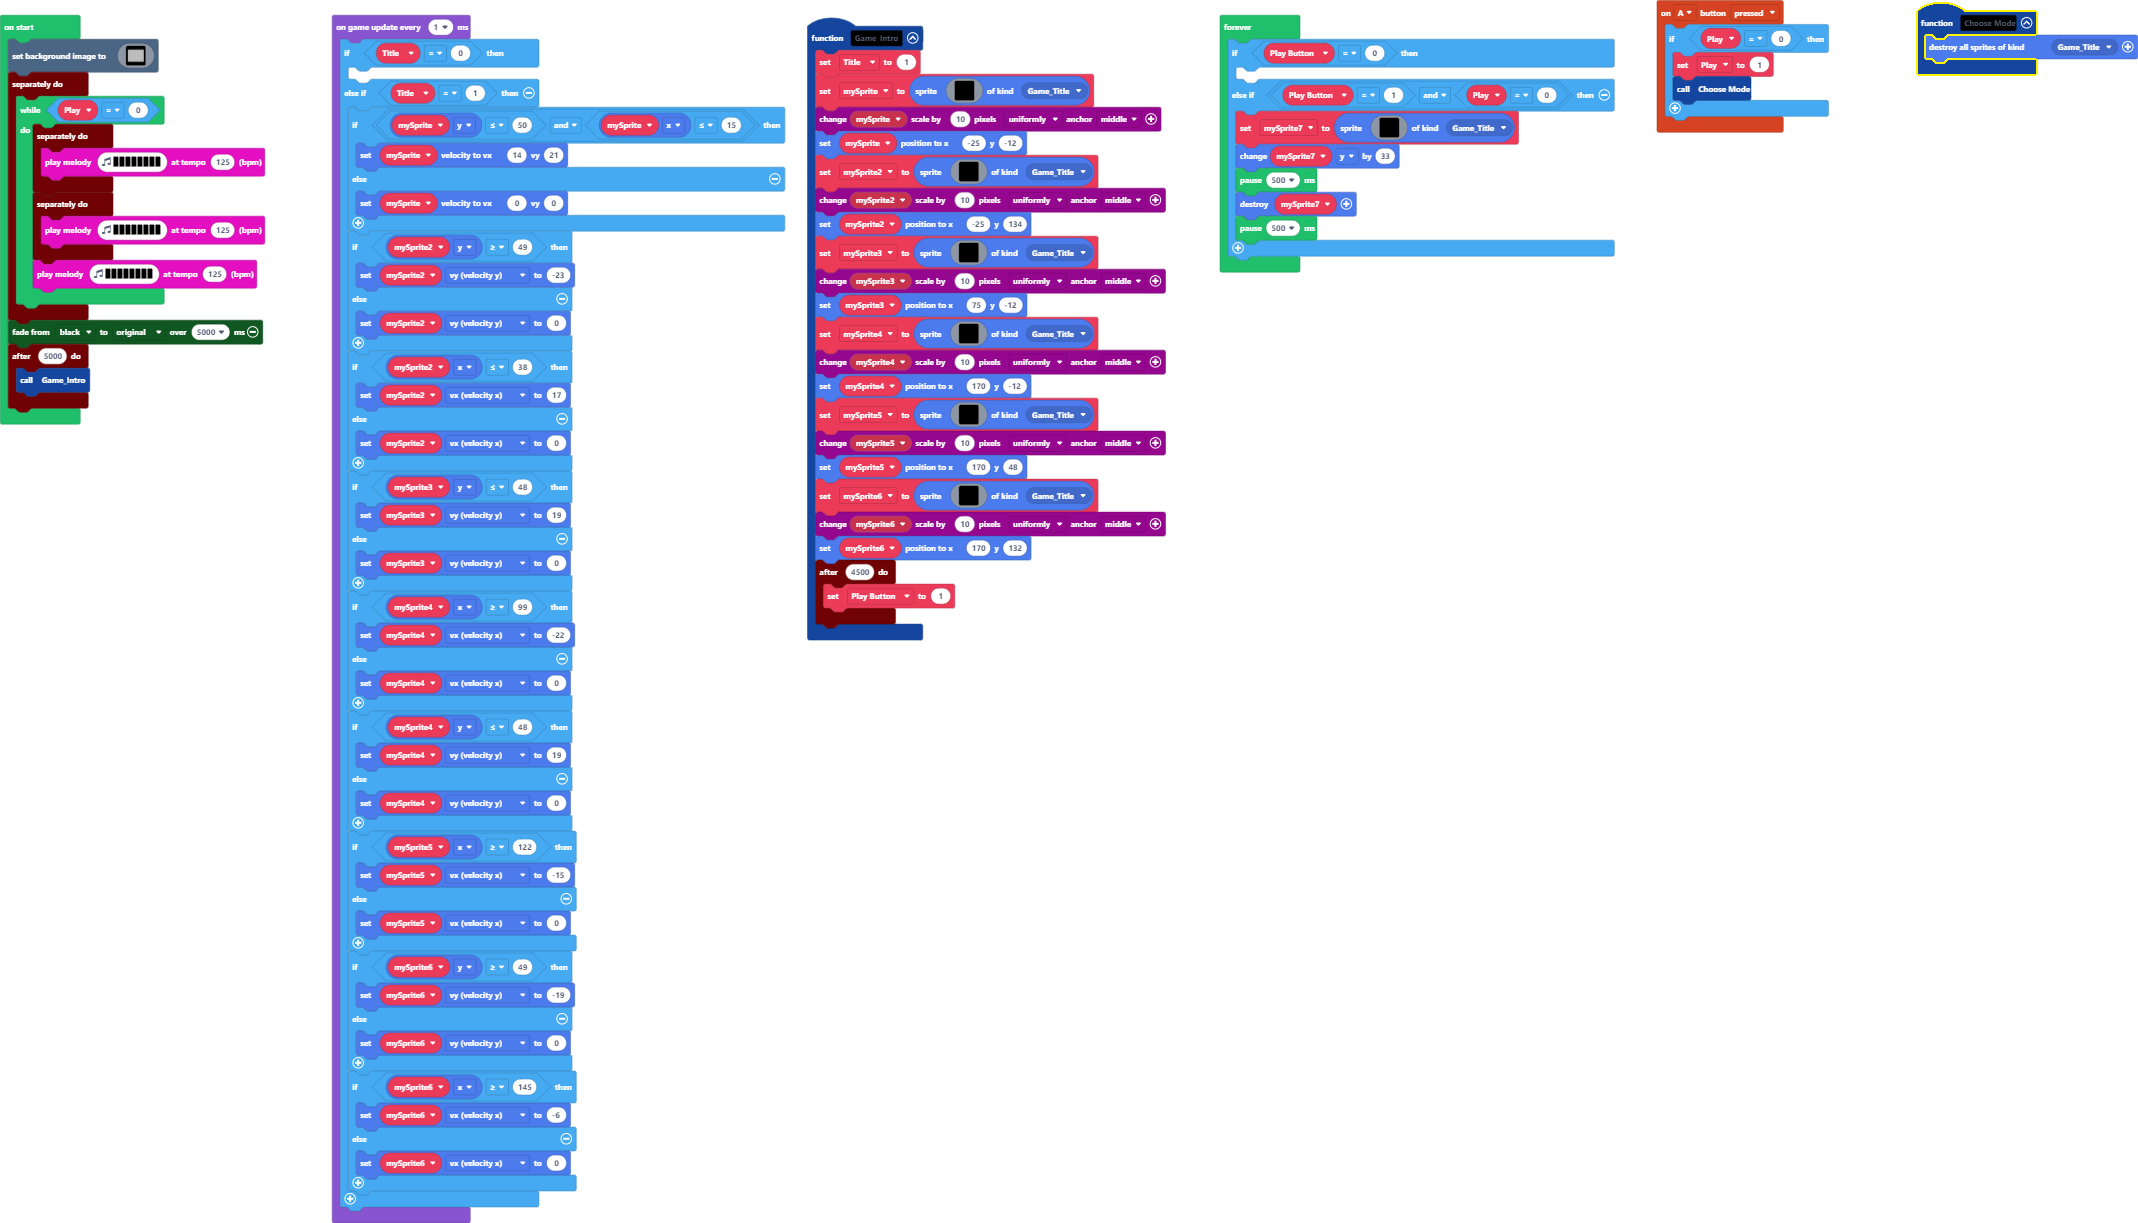
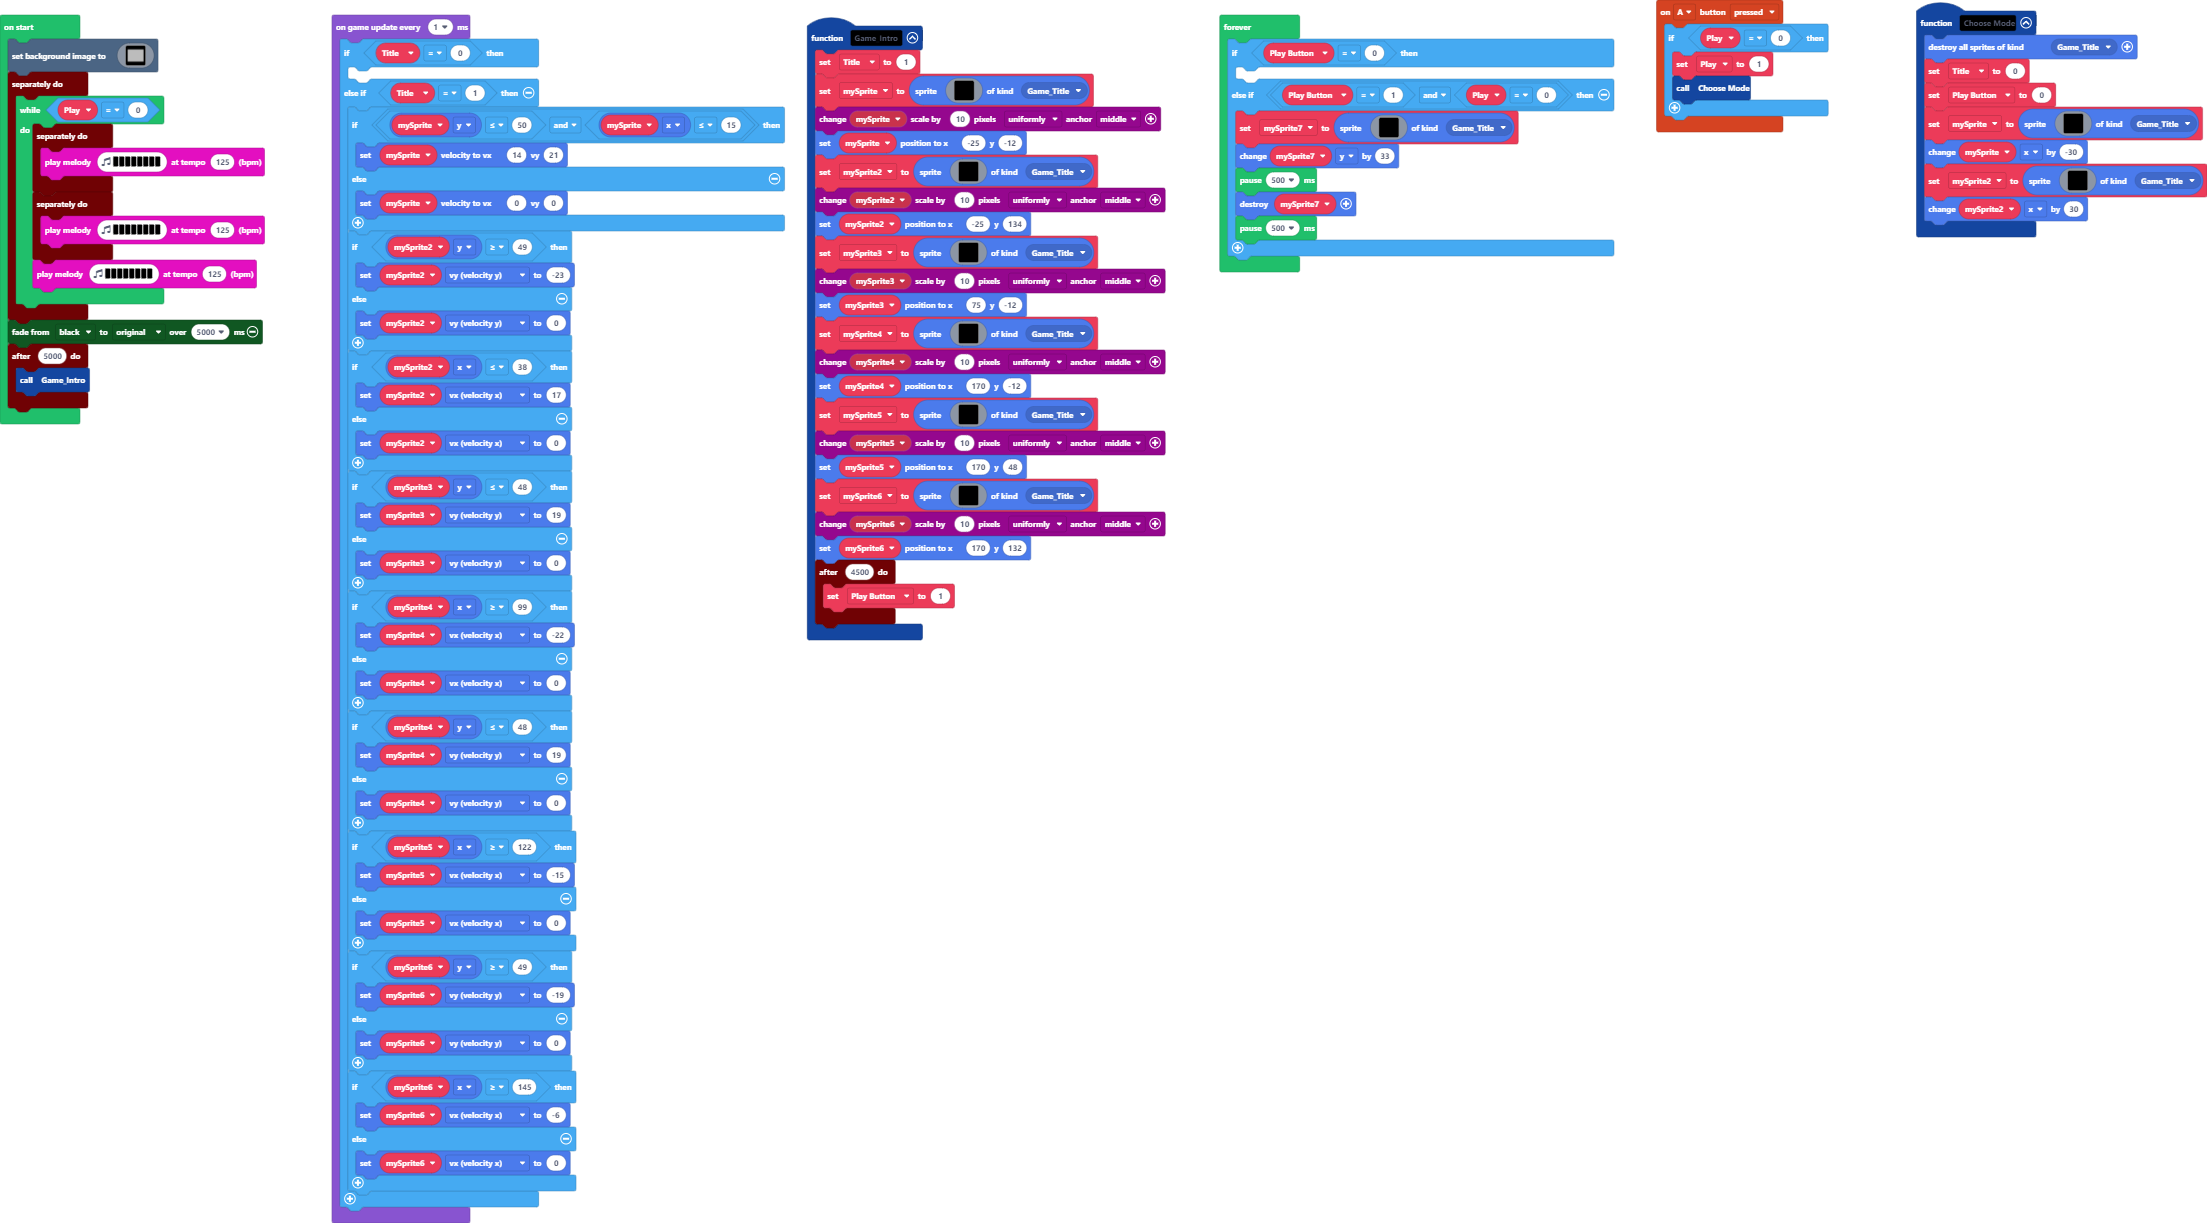
Update main.blocks, main.ts

Changed region(s): [[0.0, 0.0, 1.0, 1.0], [0.71, 0.1864, 0.7717, 0.2175], [0.1852, 0.9943, 0.247, 1.0]]

diff --git a/main.ts b/main.ts
@@ -136,6 +136,42 @@ function Game_Intro () {
 }
 function Choose_Mode () {
     sprites.destroyAllSpritesOfKind(SpriteKind.Game_Title)
+    Title = 0
+    Play_Button = 0
+    mySprite = sprites.create(img`
+        ..........................................
+        ..........................................
+        ..ffffff..ffffff..ffffff..ffffff..ff..ff..
+        ..ffffff..ffffff..ffffff..ffffff..ff..ff..
+        ..ff........ff....ff..ff..ff..ff..ff..ff..
+        ..ff........ff....ff..ff..ff..ff..ff..ff..
+        ..ffffff....ff....ff..ff..ffff....ffffff..
+        ..ffffff....ff....ff..ff..ffff....ffffff..
+        ......ff....ff....ff..ff..ff..ff....ff....
+        ......ff....ff....ff..ff..ff..ff....ff....
+        ..ffffff....ff....ffffff..ff..ff....ff....
+        ..ffffff....ff....ffffff..ff..ff....ff....
+        ..........................................
+        ..........................................
+        `, SpriteKind.Game_Title)
+    mySprite.x += -30
+    mySprite2 = sprites.create(img`
+        ..................................................
+        ..................................................
+        ..ff..ff..ffffff..ffffff..ffffff..ff..ff..ffffff..
+        ..ff..ff..ffffff..ffffff..ffffff..ff..ff..ffffff..
+        ..ff..ff..ff......ff..ff..ff......ff..ff..ff......
+        ..ff..ff..ff......ff..ff..ff......ff..ff..ff......
+        ..ff..ff..ffffff..ffff....ffffff..ff..ff..ffffff..
+        ..ff..ff..ffffff..ffff....ffffff..ff..ff..ffffff..
+        ..ff..ff..ff......ff..ff......ff..ff..ff......ff..
+        ..ff..ff..ff......ff..ff......ff..ff..ff......ff..
+        ....ff....ffffff..ff..ff..ffffff..ffffff..ffffff..
+        ....ff....ffffff..ff..ff..ffffff..ffffff..ffffff..
+        ..................................................
+        ..................................................
+        `, SpriteKind.Game_Title)
+    mySprite2.x += 30
 }
 let mySprite7: Sprite = null
 let Play_Button = 0
